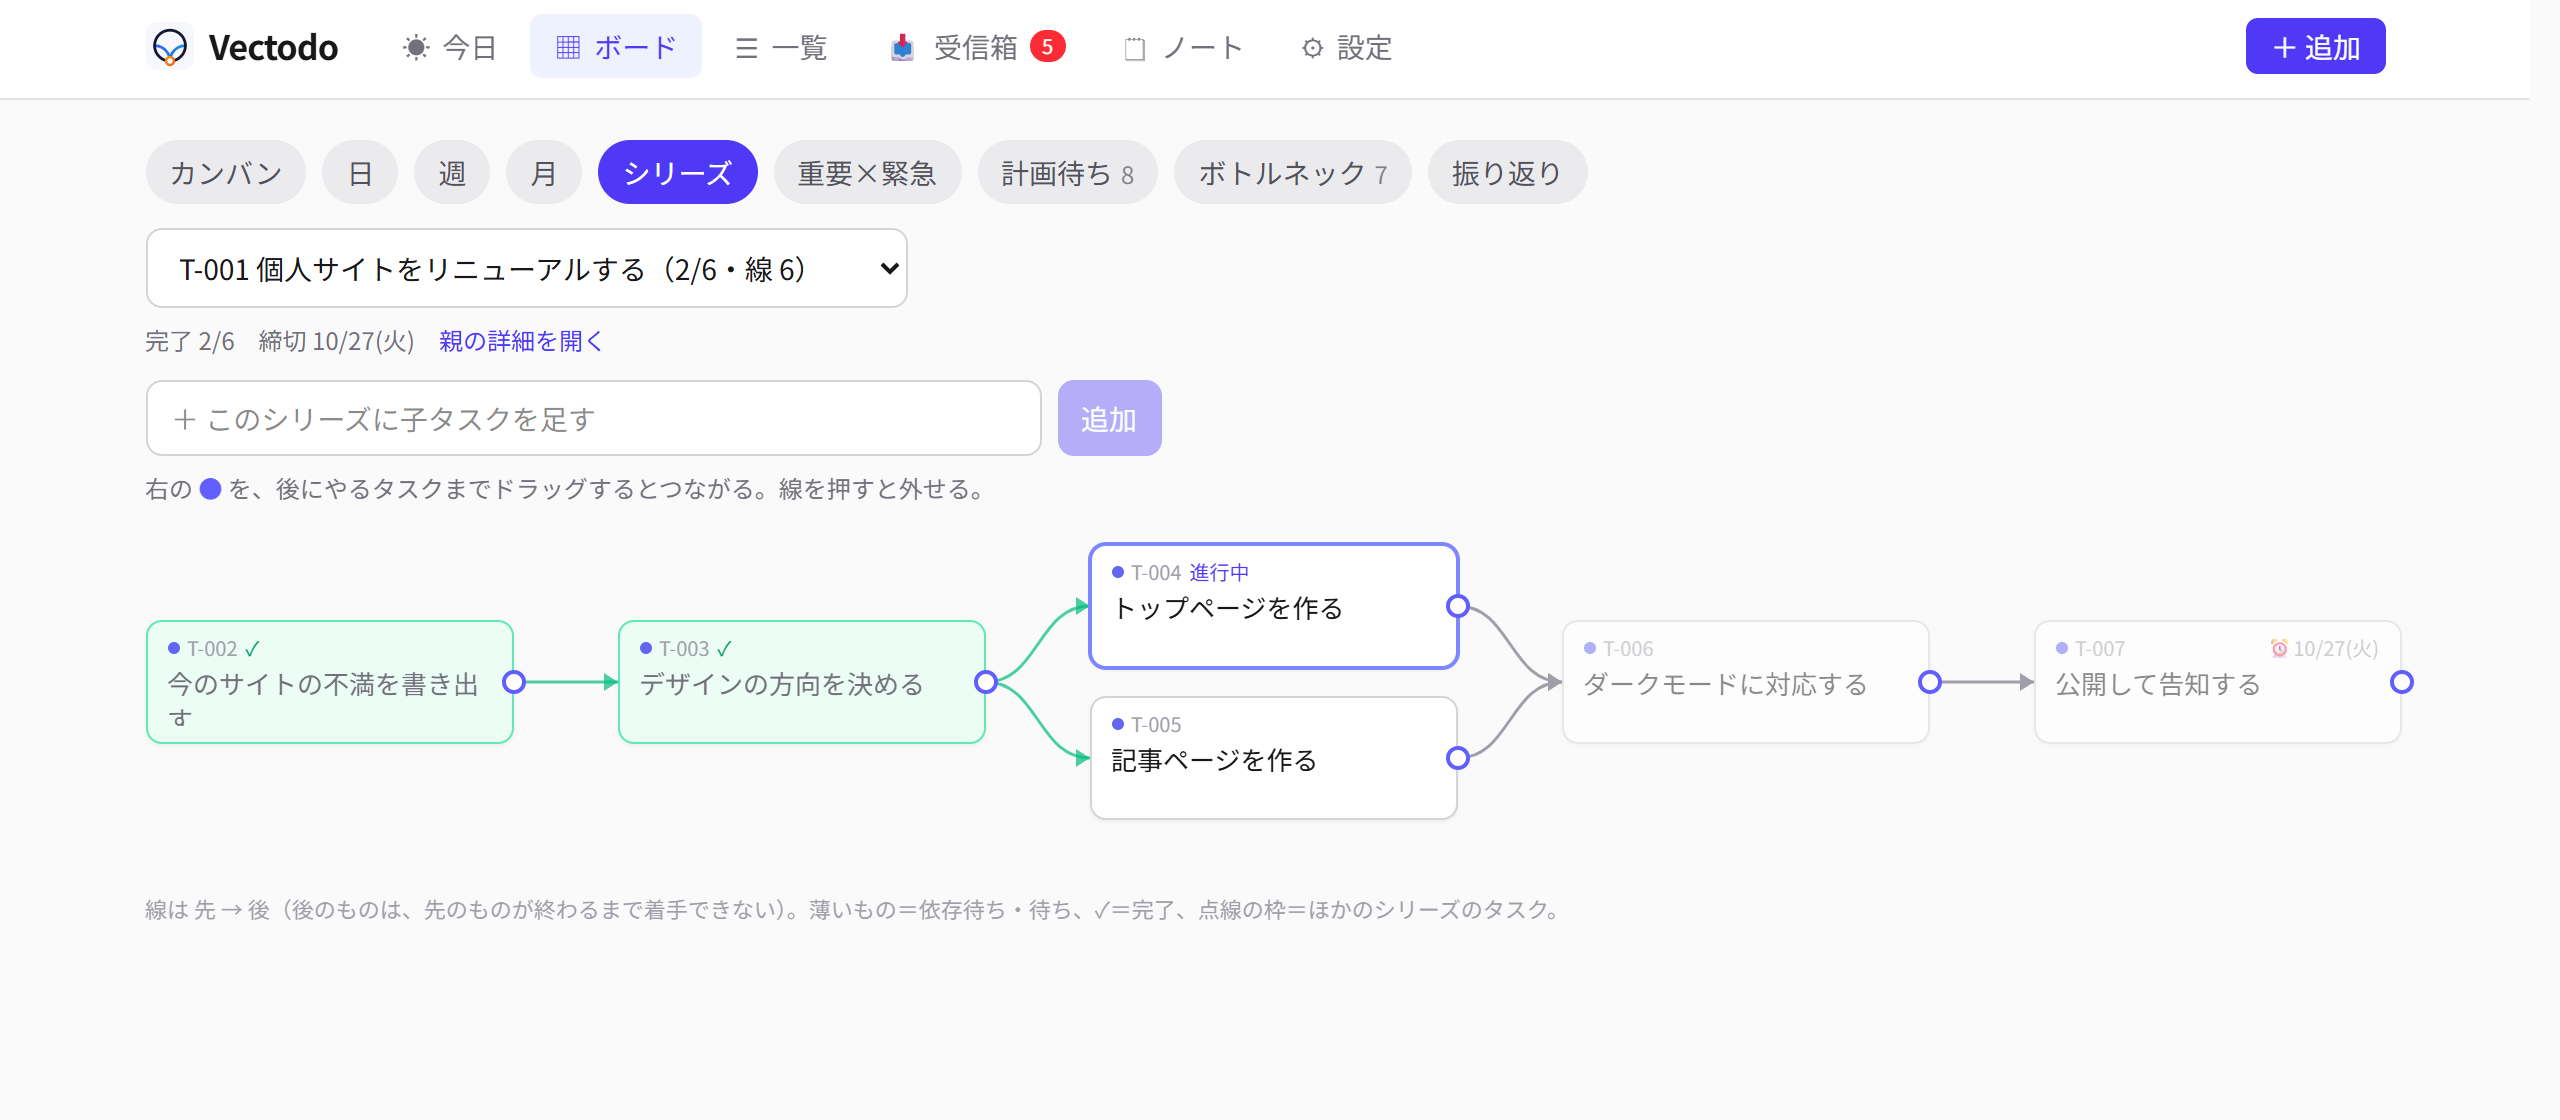
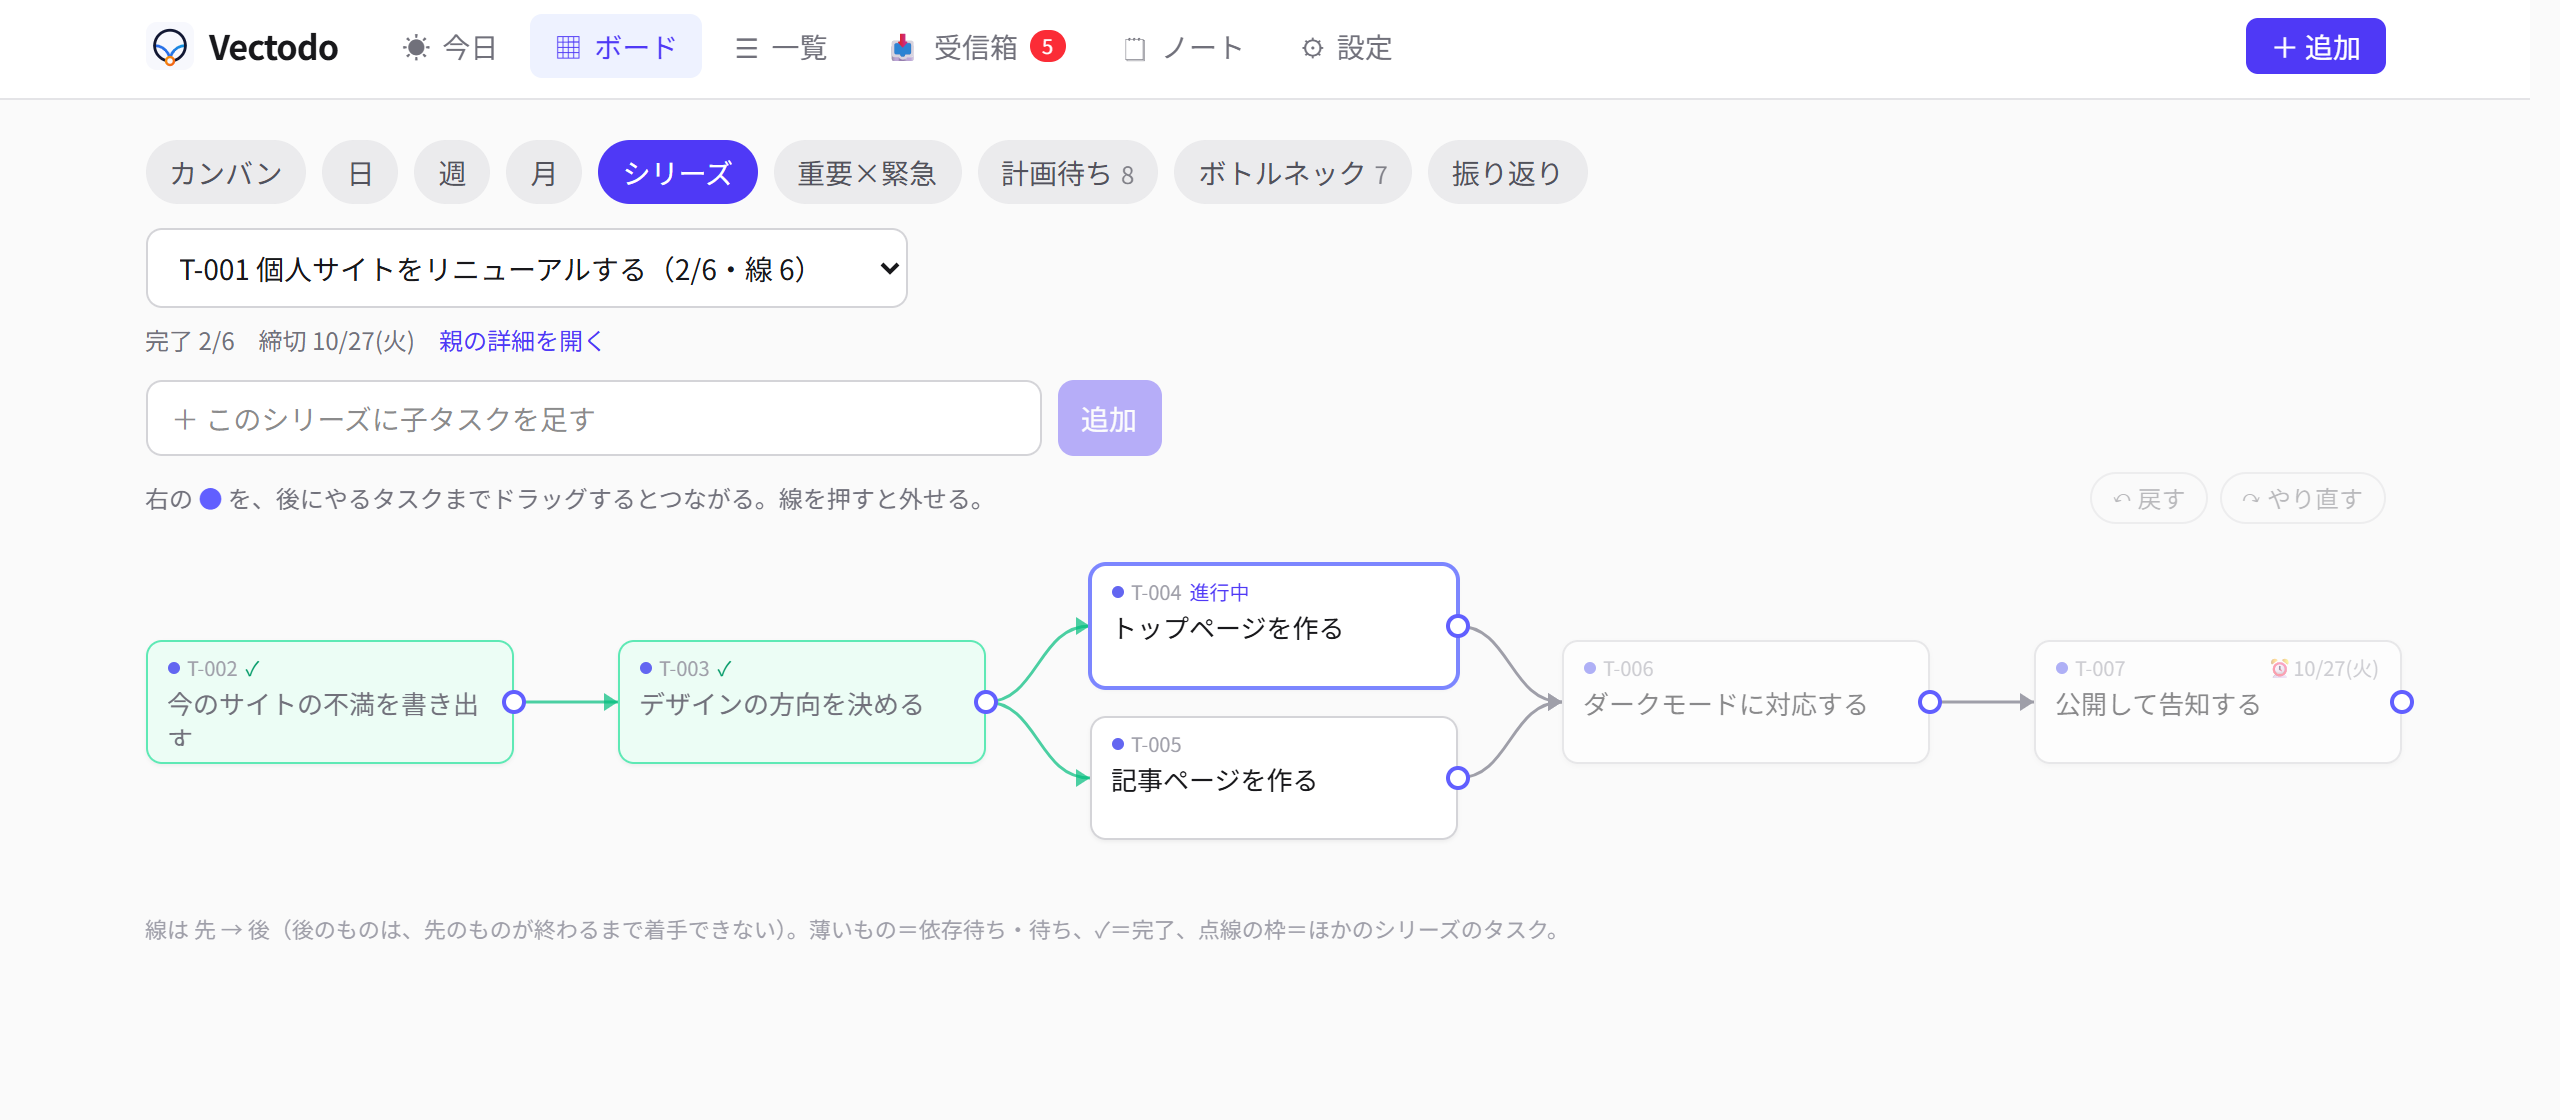
シリーズの図: 戻す・やり直す（ボタンと Ctrl+Z／Ctrl+Y）
- つなぐ・線を外す・子を足す・一列につなぐ を記録し、逆の操作をサーバに当てて取り消す
- やり直しで足し直した子は新しい番号になるので、その後の操作の番号も付け替える
- 文字を打っている欄の中では、その欄の取り消しのまま。シリーズを替えると記録は消える

diff --git a/src/web/board/SeriesView.tsx b/src/web/board/SeriesView.tsx
@@ -1,10 +1,13 @@
 // シリーズの依存の図（v4・design 7-12）。シリーズ＝親タスク1つ。子どうしの依存を DAG で描き、
 // 親をまたぐ線の先は「外」のノード（点線の枠）として出す。スマホは上→下、広い画面は左→右に流す。
 // ノードの ● を押したまま後にやるタスクの上で離すと依存ができ、線を押すと外せる。上の欄から親に子タスクを足せる。
+// 図の上でした操作は「戻す」「やり直す」（Ctrl+Z・Ctrl+Y）で取り消せる。
 
+import { useQueryClient } from '@tanstack/react-query';
 import { useEffect, useMemo, useRef, useState } from 'react';
 import { useSearchParams } from 'react-router';
 import { isOpen, STATUS_LABEL } from '../../shared/constants.ts';
+import { formatTaskCode } from '../../shared/ids.ts';
 import type { Category, SeriesGraph, SeriesSummary, Task } from '../../shared/types.ts';
 import { api, useSeries, useSeriesList, useWrite } from '../api.ts';
 import { useWideScreen } from '../media.ts';
@@ -60,6 +63,29 @@ function arrow(tip: { x: number; y: number }, dir: Dir): string {
   return dir === 'down'
     ? `${x - 4.5},${y - 7} ${x + 4.5},${y - 7} ${x},${y}`
     : `${x - 7},${y - 4.5} ${x - 7},${y + 4.5} ${x},${y}`;
+}
+
+/** 図の上でした操作（戻す・やり直すのため）。add は足した子タスク、chain は一列につないで増えた線 */
+type Act =
+  | { kind: 'link'; from: number; to: number }
+  | { kind: 'unlink'; from: number; to: number }
+  | { kind: 'add'; id: number; title: string }
+  | { kind: 'chain'; edges: Edge[] };
+
+function actLabel(a: Act): string {
+  const c = formatTaskCode;
+  if (a.kind === 'link') return `${c(a.from)} → ${c(a.to)} の線`;
+  if (a.kind === 'unlink') return `${c(a.from)} → ${c(a.to)} の線を外したこと`;
+  if (a.kind === 'add') return `${c(a.id)}「${a.title}」を足したこと`;
+  return `一列につないだ ${a.edges.length} 本`;
+}
+
+/** 番号を付け替える（やり直しで足し直した子タスクは新しい番号になるので、後の操作もそちらを向ける） */
+function remap(a: Act, from: number, to: number): Act {
+  const m = (n: number) => (n === from ? to : n);
+  if (a.kind === 'link' || a.kind === 'unlink') return { ...a, from: m(a.from), to: m(a.to) };
+  if (a.kind === 'add') return a;
+  return { ...a, edges: a.edges.map((e) => ({ from: m(e.from), to: m(e.to) })) };
 }
 
 export function SeriesView({ today, categories }: { today: string; categories: Map<number, Category> }) {
@@ -165,6 +191,73 @@ function GraphPanel({
   const missing = graph.parent ? missingChain(graph.nodes, graph.edges) : 0;
   const parent = graph.parent;
 
+  // 戻す・やり直す: 図の上でした操作（つなぐ・外す・子を足す・一列につなぐ）を逆に当てる。シリーズを替えると消える
+  const qc = useQueryClient();
+  const [hist, setHist] = useState<{ undo: Act[]; redo: Act[] }>({ undo: [], redo: [] });
+  const [busy, setBusy] = useState(false);
+  const record = (a: Act) => setHist((h) => ({ undo: [...h.undo, a], redo: [] }));
+  /** 操作を、戻す（undo）かやり直す（redo）向きに当てる。足し直した子は新しい番号で返す */
+  const apply = async (a: Act, dir: 'undo' | 'redo'): Promise<Act> => {
+    const forward = dir === 'redo';
+    if (a.kind === 'link' || a.kind === 'unlink') {
+      const add = (a.kind === 'link') === forward;
+      await (add ? api.addDep(a.to, a.from) : api.removeDep(a.to, a.from));
+      return a;
+    }
+    if (a.kind === 'chain') {
+      for (const e of a.edges) await (forward ? api.addDep(e.to, e.from) : api.removeDep(e.to, e.from));
+      return a;
+    }
+    if (!forward) {
+      await api.remove(a.id);
+      return a;
+    }
+    const t = await api.create({ title: a.title, parentId: id });
+    return { ...a, id: t.id };
+  };
+  const step = async (dir: 'undo' | 'redo') => {
+    const stack = dir === 'undo' ? hist.undo : hist.redo;
+    const a = stack[stack.length - 1];
+    if (!a || busy) return;
+    setBusy(true);
+    try {
+      const done = await apply(a, dir);
+      setHist((h) => {
+        const moved = done.kind === 'add' && a.kind === 'add' && done.id !== a.id;
+        if (dir === 'undo') return { undo: h.undo.slice(0, -1), redo: [...h.redo, done] };
+        const rest = h.redo.slice(0, -1).map((x) => (moved ? remap(x, (a as { id: number }).id, (done as { id: number }).id) : x));
+        return { undo: [...h.undo, done], redo: rest };
+      });
+      toast(`${dir === 'undo' ? '戻した' : 'やり直した'}: ${actLabel(done)}`);
+    } catch (e) {
+      // 当てられなかった（ほかの画面で先に変わっていた など）ものは捨てる
+      setHist((h) => (dir === 'undo' ? { ...h, undo: h.undo.slice(0, -1) } : { ...h, redo: h.redo.slice(0, -1) }));
+      toast(`${dir === 'undo' ? '戻せなかった' : 'やり直せなかった'}: ${e instanceof Error ? e.message : String(e)}`, 'error');
+    } finally {
+      setBusy(false);
+      void qc.invalidateQueries({ queryKey: ['tasks'] });
+    }
+  };
+  const stepRef = useRef(step);
+  stepRef.current = step;
+  // Ctrl+Z で戻す・Ctrl+Y（Ctrl+Shift+Z）でやり直す（Mac は ⌘）。文字を打っている欄の中では、その欄の取り消しのまま
+  useEffect(() => {
+    const onKey = (e: KeyboardEvent) => {
+      if (!(e.ctrlKey || e.metaKey) || e.altKey) return;
+      if ((e.target as HTMLElement).closest('input, textarea, select, [contenteditable]')) return;
+      const k = e.key.toLowerCase();
+      if (k === 'z' && !e.shiftKey) {
+        e.preventDefault();
+        void stepRef.current('undo');
+      } else if (k === 'y' || (k === 'z' && e.shiftKey)) {
+        e.preventDefault();
+        void stepRef.current('redo');
+      }
+    };
+    window.addEventListener('keydown', onKey);
+    return () => window.removeEventListener('keydown', onKey);
+  }, []);
+
   // 広い画面（左→右）は横に長くなるので、マウスで背景をつかんで横に動かせるようにし、
   // 開いたときは最初の未完了のところまで送っておく（終わった工程が多いシリーズ向け。手前の工程の端は見せて、左にもあると分かるように）
   const scroller = useRef<HTMLDivElement>(null);
@@ -200,7 +293,7 @@ function GraphPanel({
   };
   const connect = (from: number, to: number) => {
     if (graph.edges.some((x) => x.from === from && x.to === to)) return toast('もうつながっている');
-    addDep.mutate({ from, to });
+    addDep.mutate({ from, to }, { onSuccess: () => record({ kind: 'link', from, to }) });
   };
   const startLink = (t: Task, e: React.PointerEvent<HTMLElement>) => {
     if (e.button !== 0) return;
@@ -259,12 +352,23 @@ function GraphPanel({
   const onEdge = (e: Edge) => {
     const a = all.get(e.from);
     const b = all.get(e.to);
-    if (confirm(`${a?.code}「${a?.title}」→ ${b?.code}「${b?.title}」の線を外す？`)) rmDep.mutate(e);
+    if (confirm(`${a?.code}「${a?.title}」→ ${b?.code}「${b?.title}」の線を外す？`)) {
+      rmDep.mutate(e, { onSuccess: () => record({ kind: 'unlink', from: e.from, to: e.to }) });
+    }
   };
   const onChain = () => {
     const n = graph.nodes.filter((t) => t.status !== 'canceled').length;
     if (!confirm(`子 ${n} 件を並び順どおりに一列につなぐ？（線を ${missing} 本足す）`)) return;
-    chain.mutate(undefined, { onSuccess: (r) => toast(`${r.added} 本つないだ`) });
+    const before = graph.edges;
+    chain.mutate(undefined, {
+      onSuccess: async (r) => {
+        toast(`${r.added} 本つないだ`);
+        // 増えた線を覚えて、戻すときに外せるようにする
+        const now = await api.series(id);
+        const added = now.edges.filter((e) => !before.some((b) => b.from === e.from && b.to === e.to));
+        if (added.length > 0) record({ kind: 'chain', edges: added });
+      },
+    });
   };
 
   const width = layout.slots && layout.layers ? place({ layer: layout.layers - 1, slot: layout.slots - 1 }, dir).x + g.w : 0;
@@ -299,12 +403,16 @@ function GraphPanel({
         </div>
       )}
 
-      {parent && <AddChild parentId={parent.id} />}
+      {parent && <AddChild parentId={parent.id} onAdded={(t) => record({ kind: 'add', id: t.id, title: t.title })} />}
 
       {graph.nodes.length > 0 && (
         <div className="flex flex-wrap items-center gap-x-3 gap-y-2 pt-2 text-xs text-zinc-500">
           <span>
             {dir === 'right' ? '右' : '下'}の <span className="text-indigo-500">●</span> を、後にやるタスクまでドラッグするとつながる。線を押すと外せる。
+          </span>
+          <span className="ml-auto flex gap-1.5">
+            <UndoButton label="↶ 戻す" keys="Ctrl+Z" act={hist.undo.at(-1)} busy={busy} onClick={() => void step('undo')} />
+            <UndoButton label="↷ やり直す" keys="Ctrl+Y" act={hist.redo.at(-1)} busy={busy} onClick={() => void step('redo')} />
           </span>
           {/* まだ線が1本も無いシリーズだけ（枝分かれさせた後に押して一列にしてしまわないように） */}
           {missing > 0 && graph.edges.length === 0 && (
@@ -414,14 +522,22 @@ function GraphPanel({
 }
 
 /** このシリーズ（親）に子タスクを足す。タイトルだけで Enter、続けて何件でも */
-function AddChild({ parentId }: { parentId: number }) {
+function AddChild({ parentId, onAdded }: { parentId: number; onAdded: (t: Task) => void }) {
   const [title, setTitle] = useState('');
   const input = useRef<HTMLInputElement>(null);
   const create = useWrite(api.create);
   const submit = () => {
     const t = title.trim();
     if (!t) return;
-    create.mutate({ title: t, parentId }, { onSuccess: (task) => toast(`${task.code} を足した`) });
+    create.mutate(
+      { title: t, parentId },
+      {
+        onSuccess: (task) => {
+          toast(`${task.code} を足した`);
+          onAdded(task);
+        },
+      },
+    );
     setTitle('');
     input.current?.focus();
   };
@@ -449,6 +565,21 @@ function AddChild({ parentId }: { parentId: number }) {
         追加
       </button>
     </form>
+  );
+}
+
+/** 戻す・やり直すのボタン。押すと何が戻るかを title に出す */
+function UndoButton({ label, keys, act, busy, onClick }: { label: string; keys: string; act: Act | undefined; busy: boolean; onClick: () => void }) {
+  return (
+    <button
+      type="button"
+      onClick={onClick}
+      disabled={!act || busy}
+      title={act ? `${label.slice(2)}: ${actLabel(act)}（${keys}）` : `${label.slice(2)}ものは無い`}
+      className="rounded-full border border-zinc-300 px-2.5 py-1 text-xs text-zinc-700 disabled:opacity-35 dark:border-zinc-700 dark:text-zinc-200"
+    >
+      {label}
+    </button>
   );
 }
 
